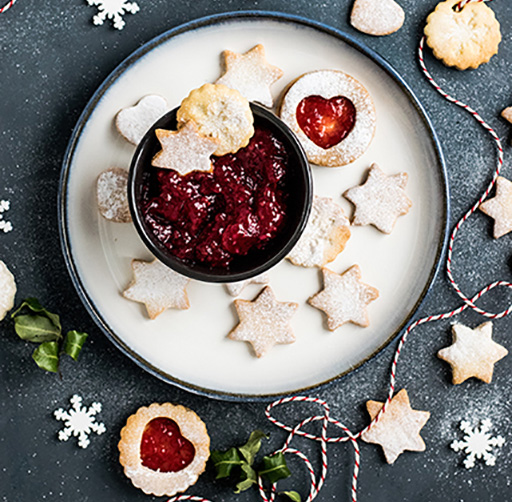
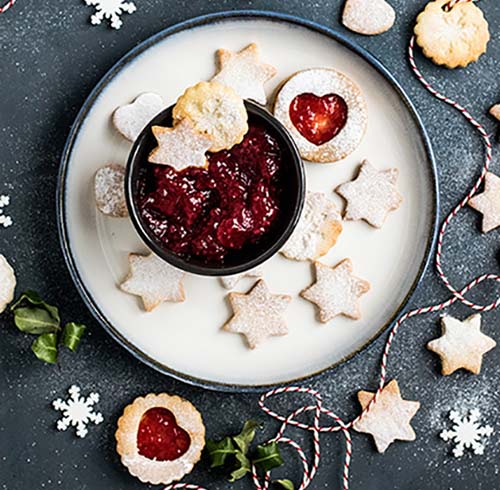
Lower the resolution

diff --git a/index.html b/index.html
@@ -107,7 +107,7 @@
     </div>
   </main>
 
-  <footer role="contentinfo text-center">
+  <footer>
     <small class="island text-center">© Just Bake it!</small>
   </footer>
 

diff --git a/css/main.css b/css/main.css
@@ -134,5 +134,4 @@ footer {
     .extra-gutter {
       margin: 0 10em;
     }
-
   }
